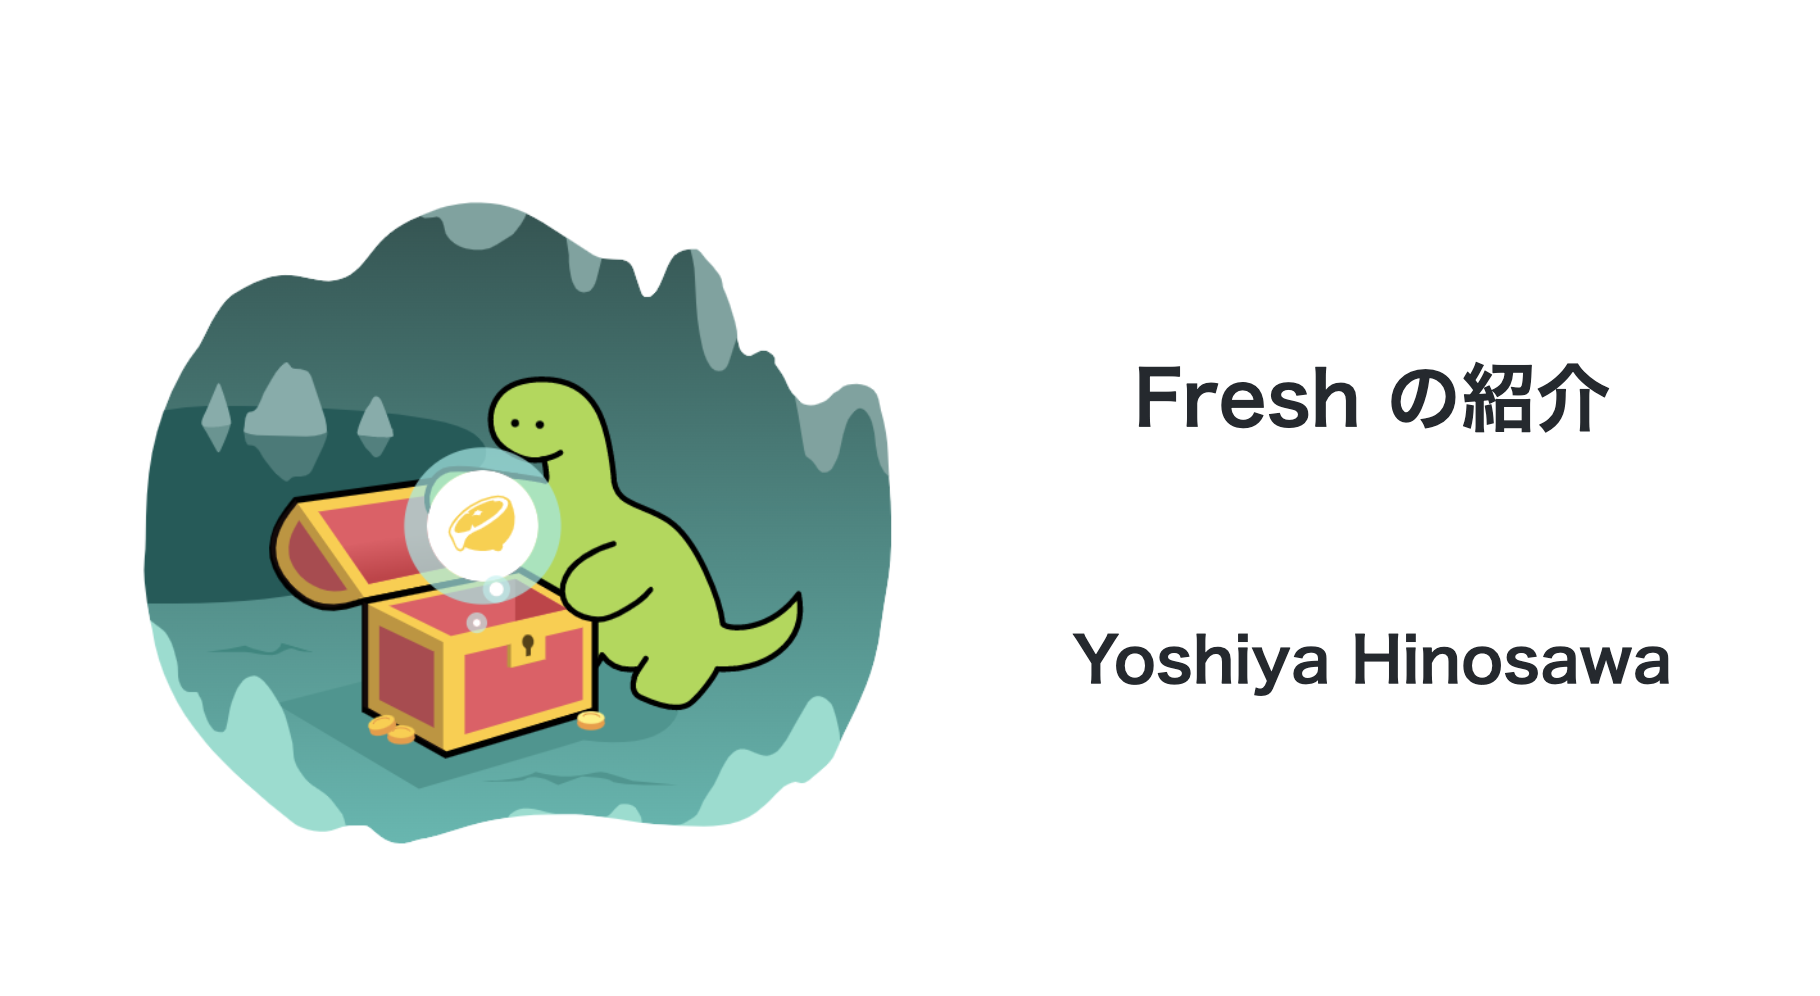
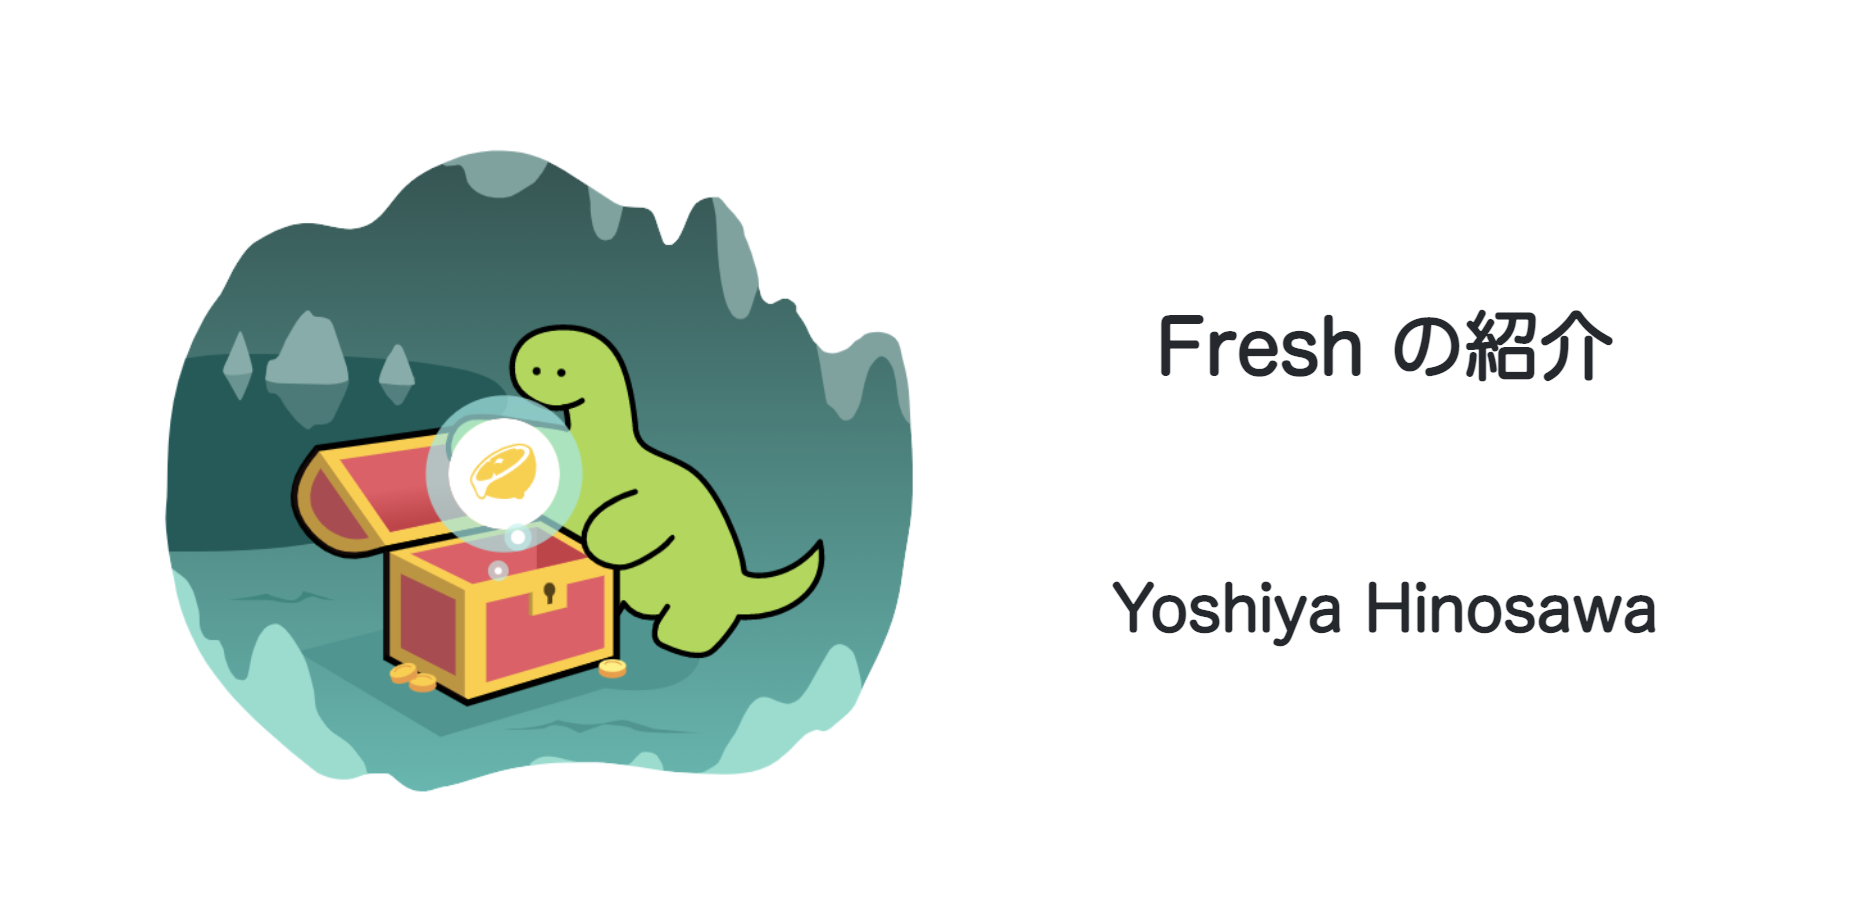
update font

diff --git a/docs/index.html b/docs/index.html
@@ -8,10 +8,10 @@
     
     <meta property="og:image" content="https://kt3k.github.io/talk_fresh_2/assets/og-image.png"/>
     
-    <meta property="og:image:width" content="910"/>
+    <meta property="og:image:width" content="930"/>
     
     
-    <meta property="og:image:height" content="498"/>
+    <meta property="og:image:height" content="460"/>
     
     
     
@@ -30,7 +30,7 @@
     
     <style type="text/css">
       body {
-  font-family: 'klee', 'Tsukushi A Round Gothic', 'Hiragino Kaku Gothic ProN', 'Meiryo', 'メイリオ', sans-serif;
+  font-family: 'Hiragino Maru Gothic ProN', 'Hiragino Kaku Gothic ProN', 'Meiryo', 'メイリオ', sans-serif;
   font-weight: bold;
 }
 h1, h2, h3 {
